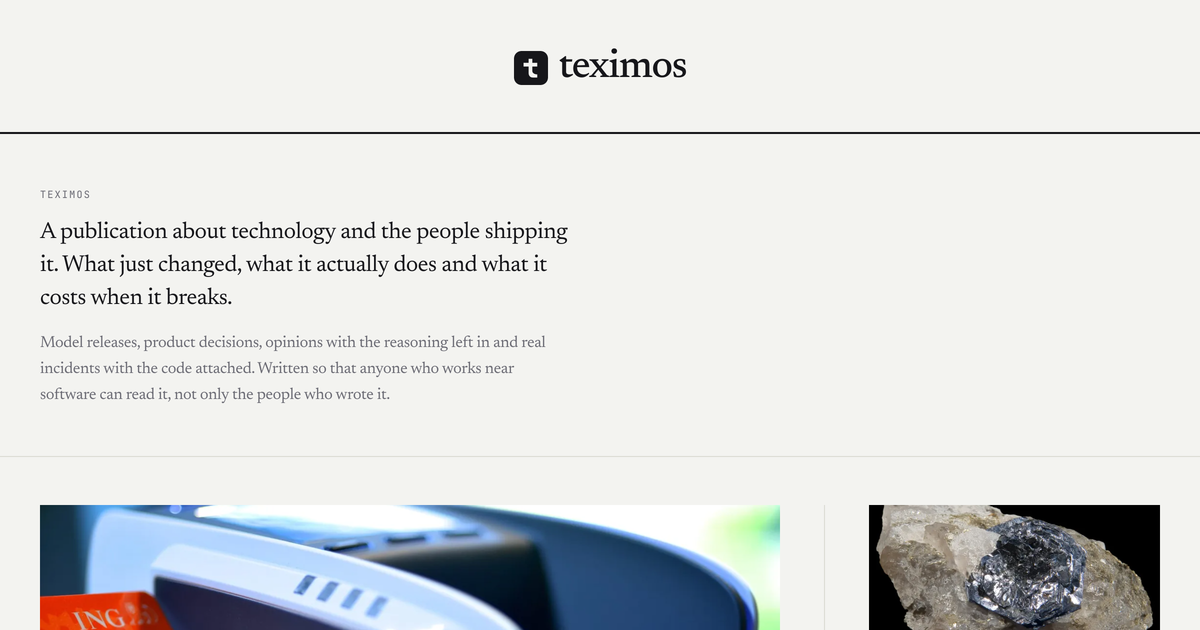
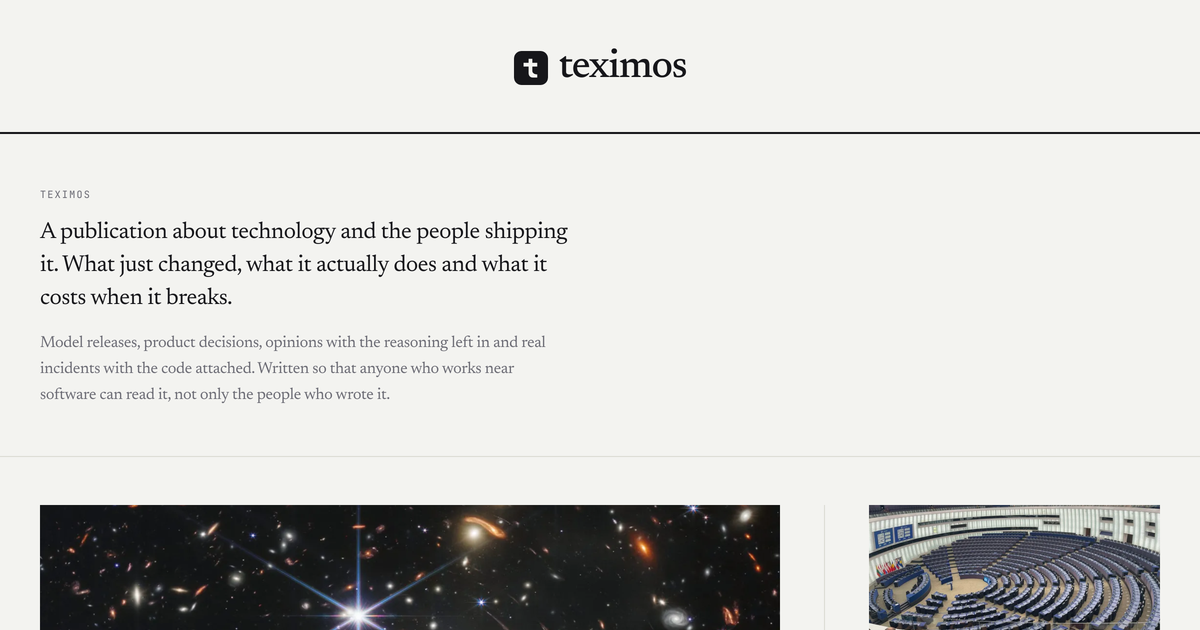
Three new pieces, and a stats guide
A black hole star at cosmic dawn (Cosmology), the EU postponing the
high-risk AI Act deadlines (Policy), and the summer the frontier labs
competed on price rather than capability (Model releases). Each led by a
real, licensed image and fact-checked against primary sources.

Adds docs/stats.md covering what Cloudflare, Search Console and Buttondown
can each show, and how to turn on Cloudflare Web Analytics at the edge so
the site keeps shipping no JavaScript.

Changed region(s): [[0.0308, 0.7841, 0.6475, 1.0], [0.7092, 0.7841, 0.9867, 1.0]]

diff --git a/docs/stats.md b/docs/stats.md
@@ -1,0 +1,84 @@
+# Teximos stats: what you can check, and how
+
+Teximos ships almost no JavaScript on purpose, so it does not carry a heavy
+analytics script. This is how to see who is reading it anyway, ordered from
+"available right now" to "needs a two minute setup".
+
+## 1. Cloudflare request analytics (available now, zero setup)
+
+The site is served by Cloudflare, so Cloudflare already counts every request.
+
+- Go to the Cloudflare dashboard, pick the `teximos.com` zone, open **Analytics
+  and Logs**.
+- You get: total requests, data served, cached versus uncached, and the split of
+  status codes (how many 200s versus 404s).
+
+What it does not tell you: how many are real humans versus bots and crawlers, and
+which article a person actually read. Request counts are inflated by automated
+traffic, so treat them as a ceiling, not a readership number.
+
+## 2. Cloudflare Web Analytics (turn this on, two minutes, no code)
+
+This is the real reader dashboard. Because teximos is already proxied through
+Cloudflare, you can turn it on at the edge with no change to the site and no
+script added to our source, so the zero-JavaScript design stays intact.
+
+Steps:
+
+1. Cloudflare dashboard, left sidebar, **Analytics and Logs**, then **Web
+   Analytics**.
+2. **Add a site**, enter `teximos.com`.
+3. When it offers **automatic setup**, choose it. Cloudflare injects the small
+   measurement beacon at the edge for you. Do not paste a script tag into the
+   repo. Leave automatic setup on.
+
+Once it is live you get, per day and per page:
+
+- **Page views and visits**, split by real visitors rather than raw requests.
+- **Top pages**, so you can see which article is actually being read.
+- **Referrers**, so you can see whether traffic came from search, a link, or
+  social.
+- **Countries and device types.**
+- **Core Web Vitals**, the loading and layout speed scores that also feed SEO.
+
+It is cookieless and privacy first, so there is no per person tracking and no
+cookie banner to add. The tradeoff is that it cannot follow one individual across
+visits, which for a publication is exactly the tradeoff you want.
+
+If automatic setup is ever unavailable for this kind of Cloudflare project, the
+fallback is a single beacon script tag in `src/layouts/Base.astro`, with the
+token from that same Web Analytics page. That is the only case that puts any
+JavaScript into our source, so use it only if the edge option does not appear.
+
+## 3. Google Search Console (highest value for a blog, your hands)
+
+Search Console is where a publication learns what it is actually being found for.
+It shows impressions, clicks, the search queries that surfaced the site and the
+average position for each. This is more useful than pure traffic counts, because
+it tells you which pieces are earning search interest.
+
+Setup, once:
+
+1. Go to search.google.com/search-console.
+2. Add a **Domain** property for `teximos.com`. It verifies with a DNS TXT record
+   you add in Cloudflare, and covers every subdomain and both http and https.
+3. Use whichever Google account already holds your other properties, since one
+   account can hold unlimited ones.
+4. Submit the sitemap: `https://teximos.com/sitemap-index.xml`.
+5. Use **URL Inspection** on the homepage and request indexing.
+
+## 4. Buttondown (after the newsletter is wired)
+
+Once the subscribe form points at the real Buttondown account, the Buttondown
+dashboard shows subscriber count over time, plus open rates on each email you
+send. That is the cleanest signal that the writing is landing, because a
+subscribe is a stronger vote than a page view.
+
+## Quick reference
+
+| Signal | Where | Setup | Tells you |
+| --- | --- | --- | --- |
+| Requests | Cloudflare Analytics and Logs | none | rough traffic, bot inflated |
+| Page views, top pages, referrers | Cloudflare Web Analytics | 2 min, no code | real readership |
+| Search queries, clicks, position | Google Search Console | one time, DNS | what search finds you for |
+| Subscribers, open rate | Buttondown | after newsletter wired | who wants the next piece |
